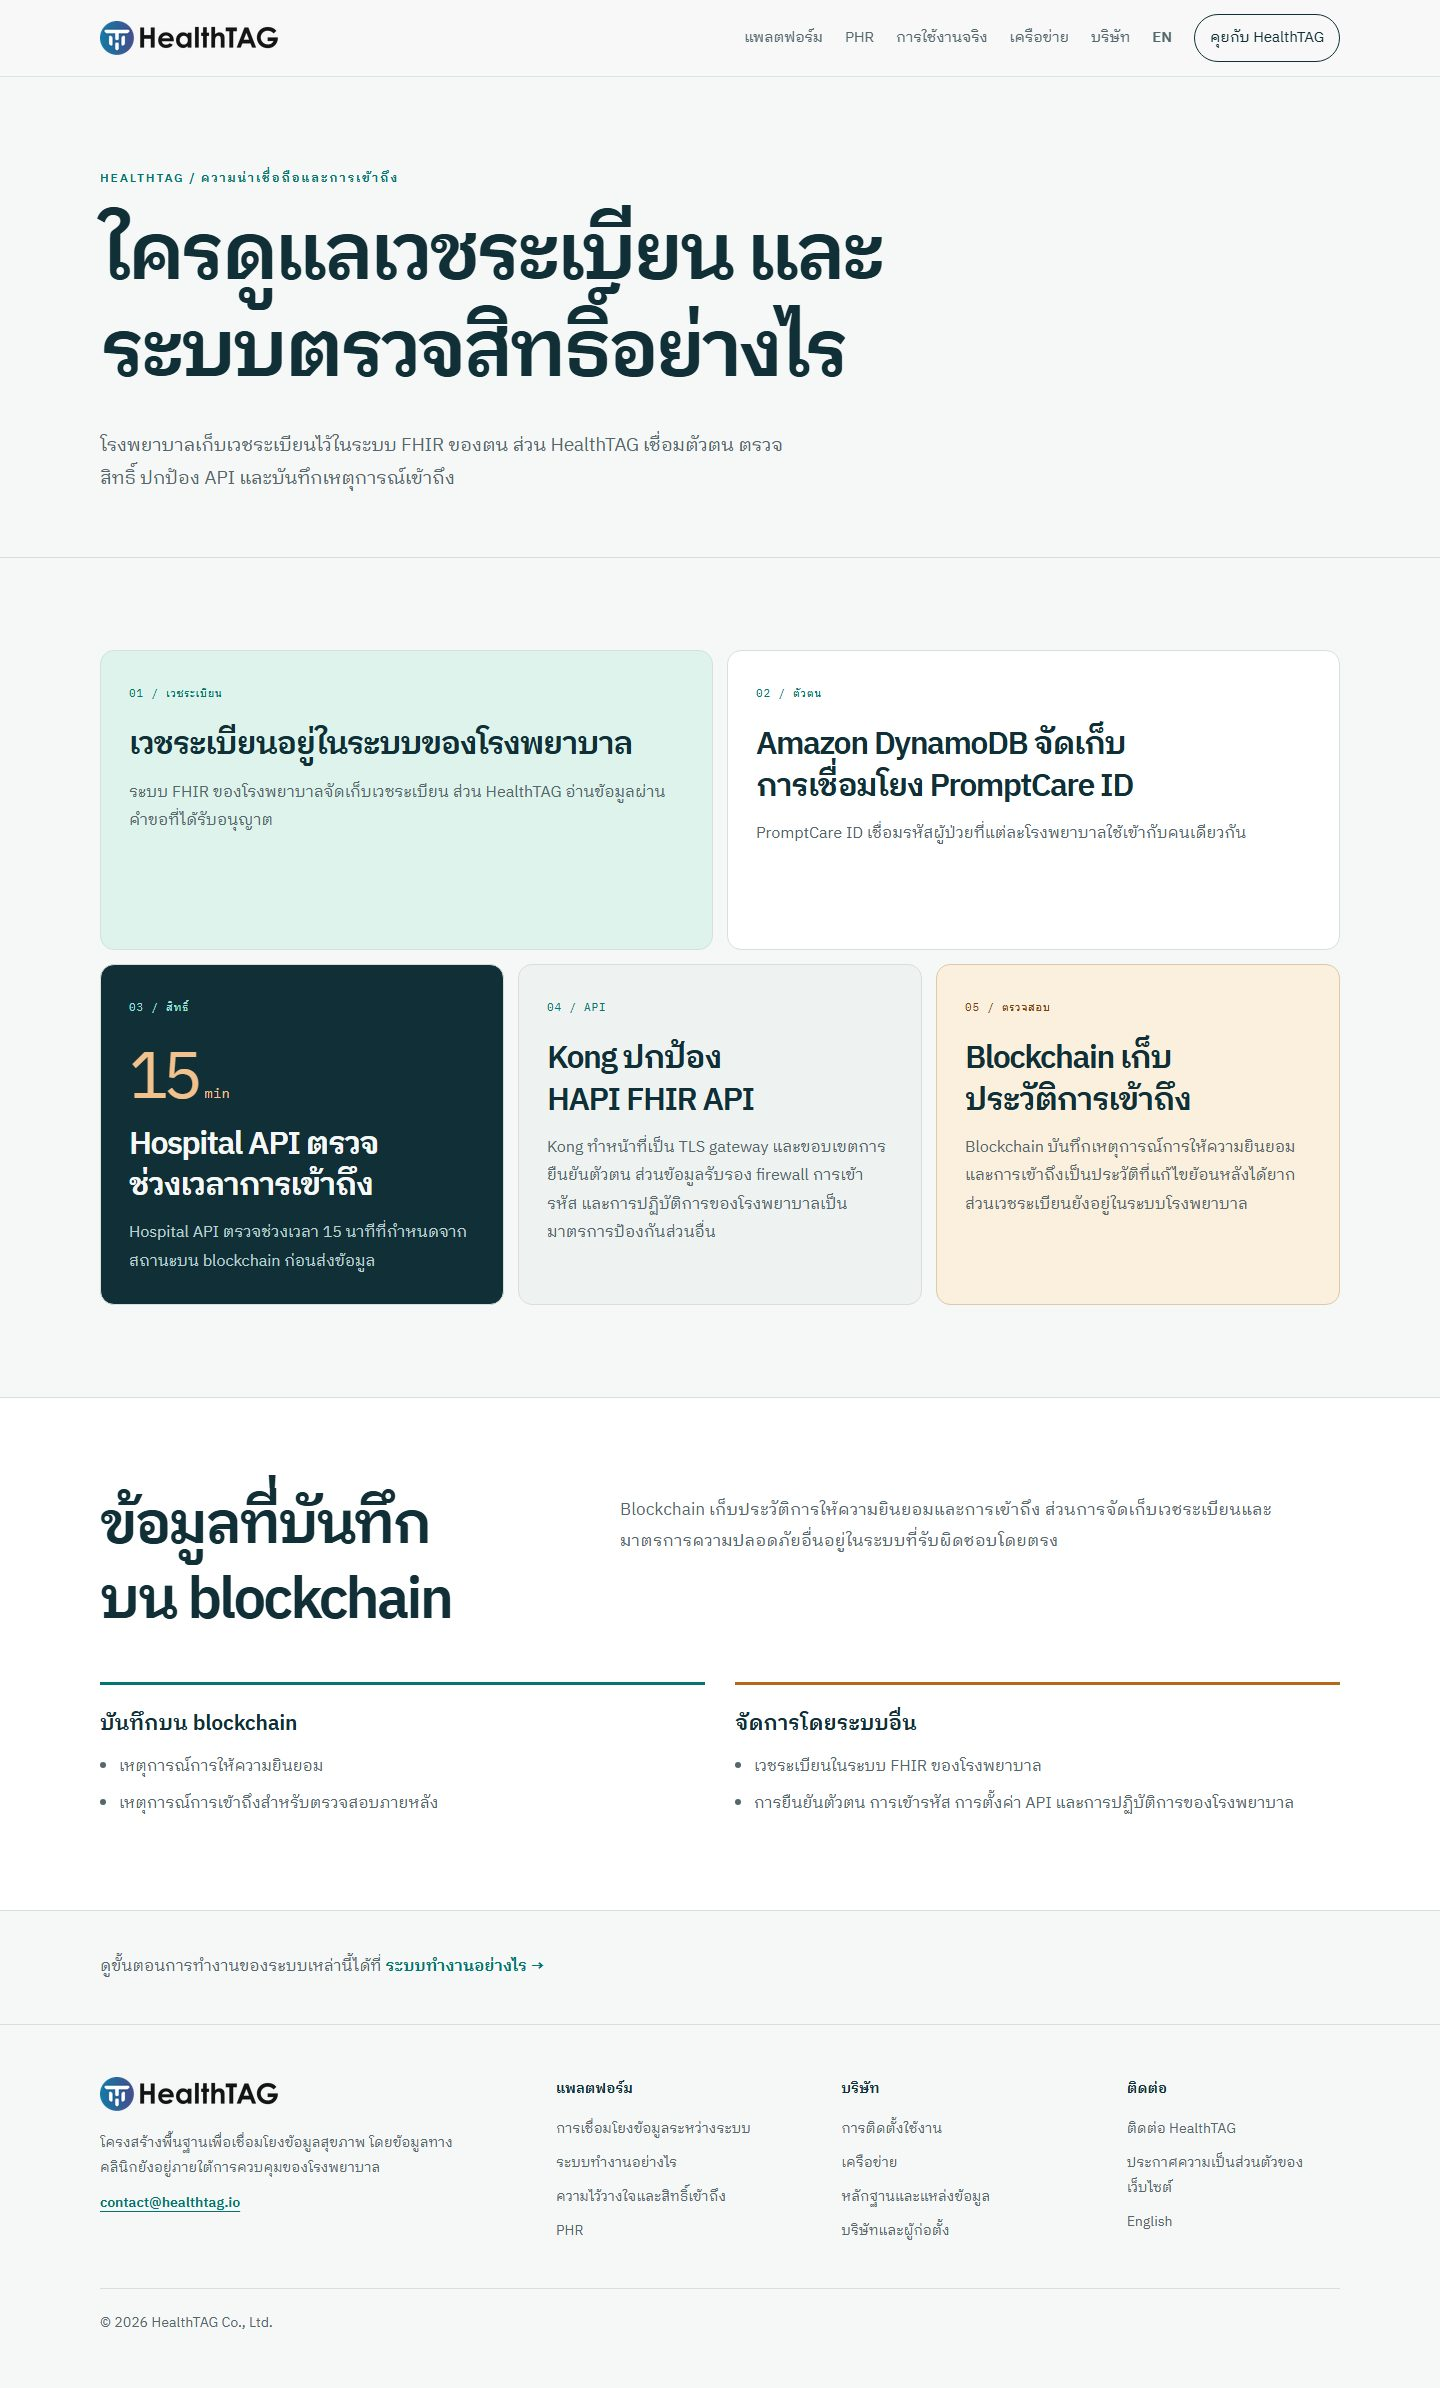
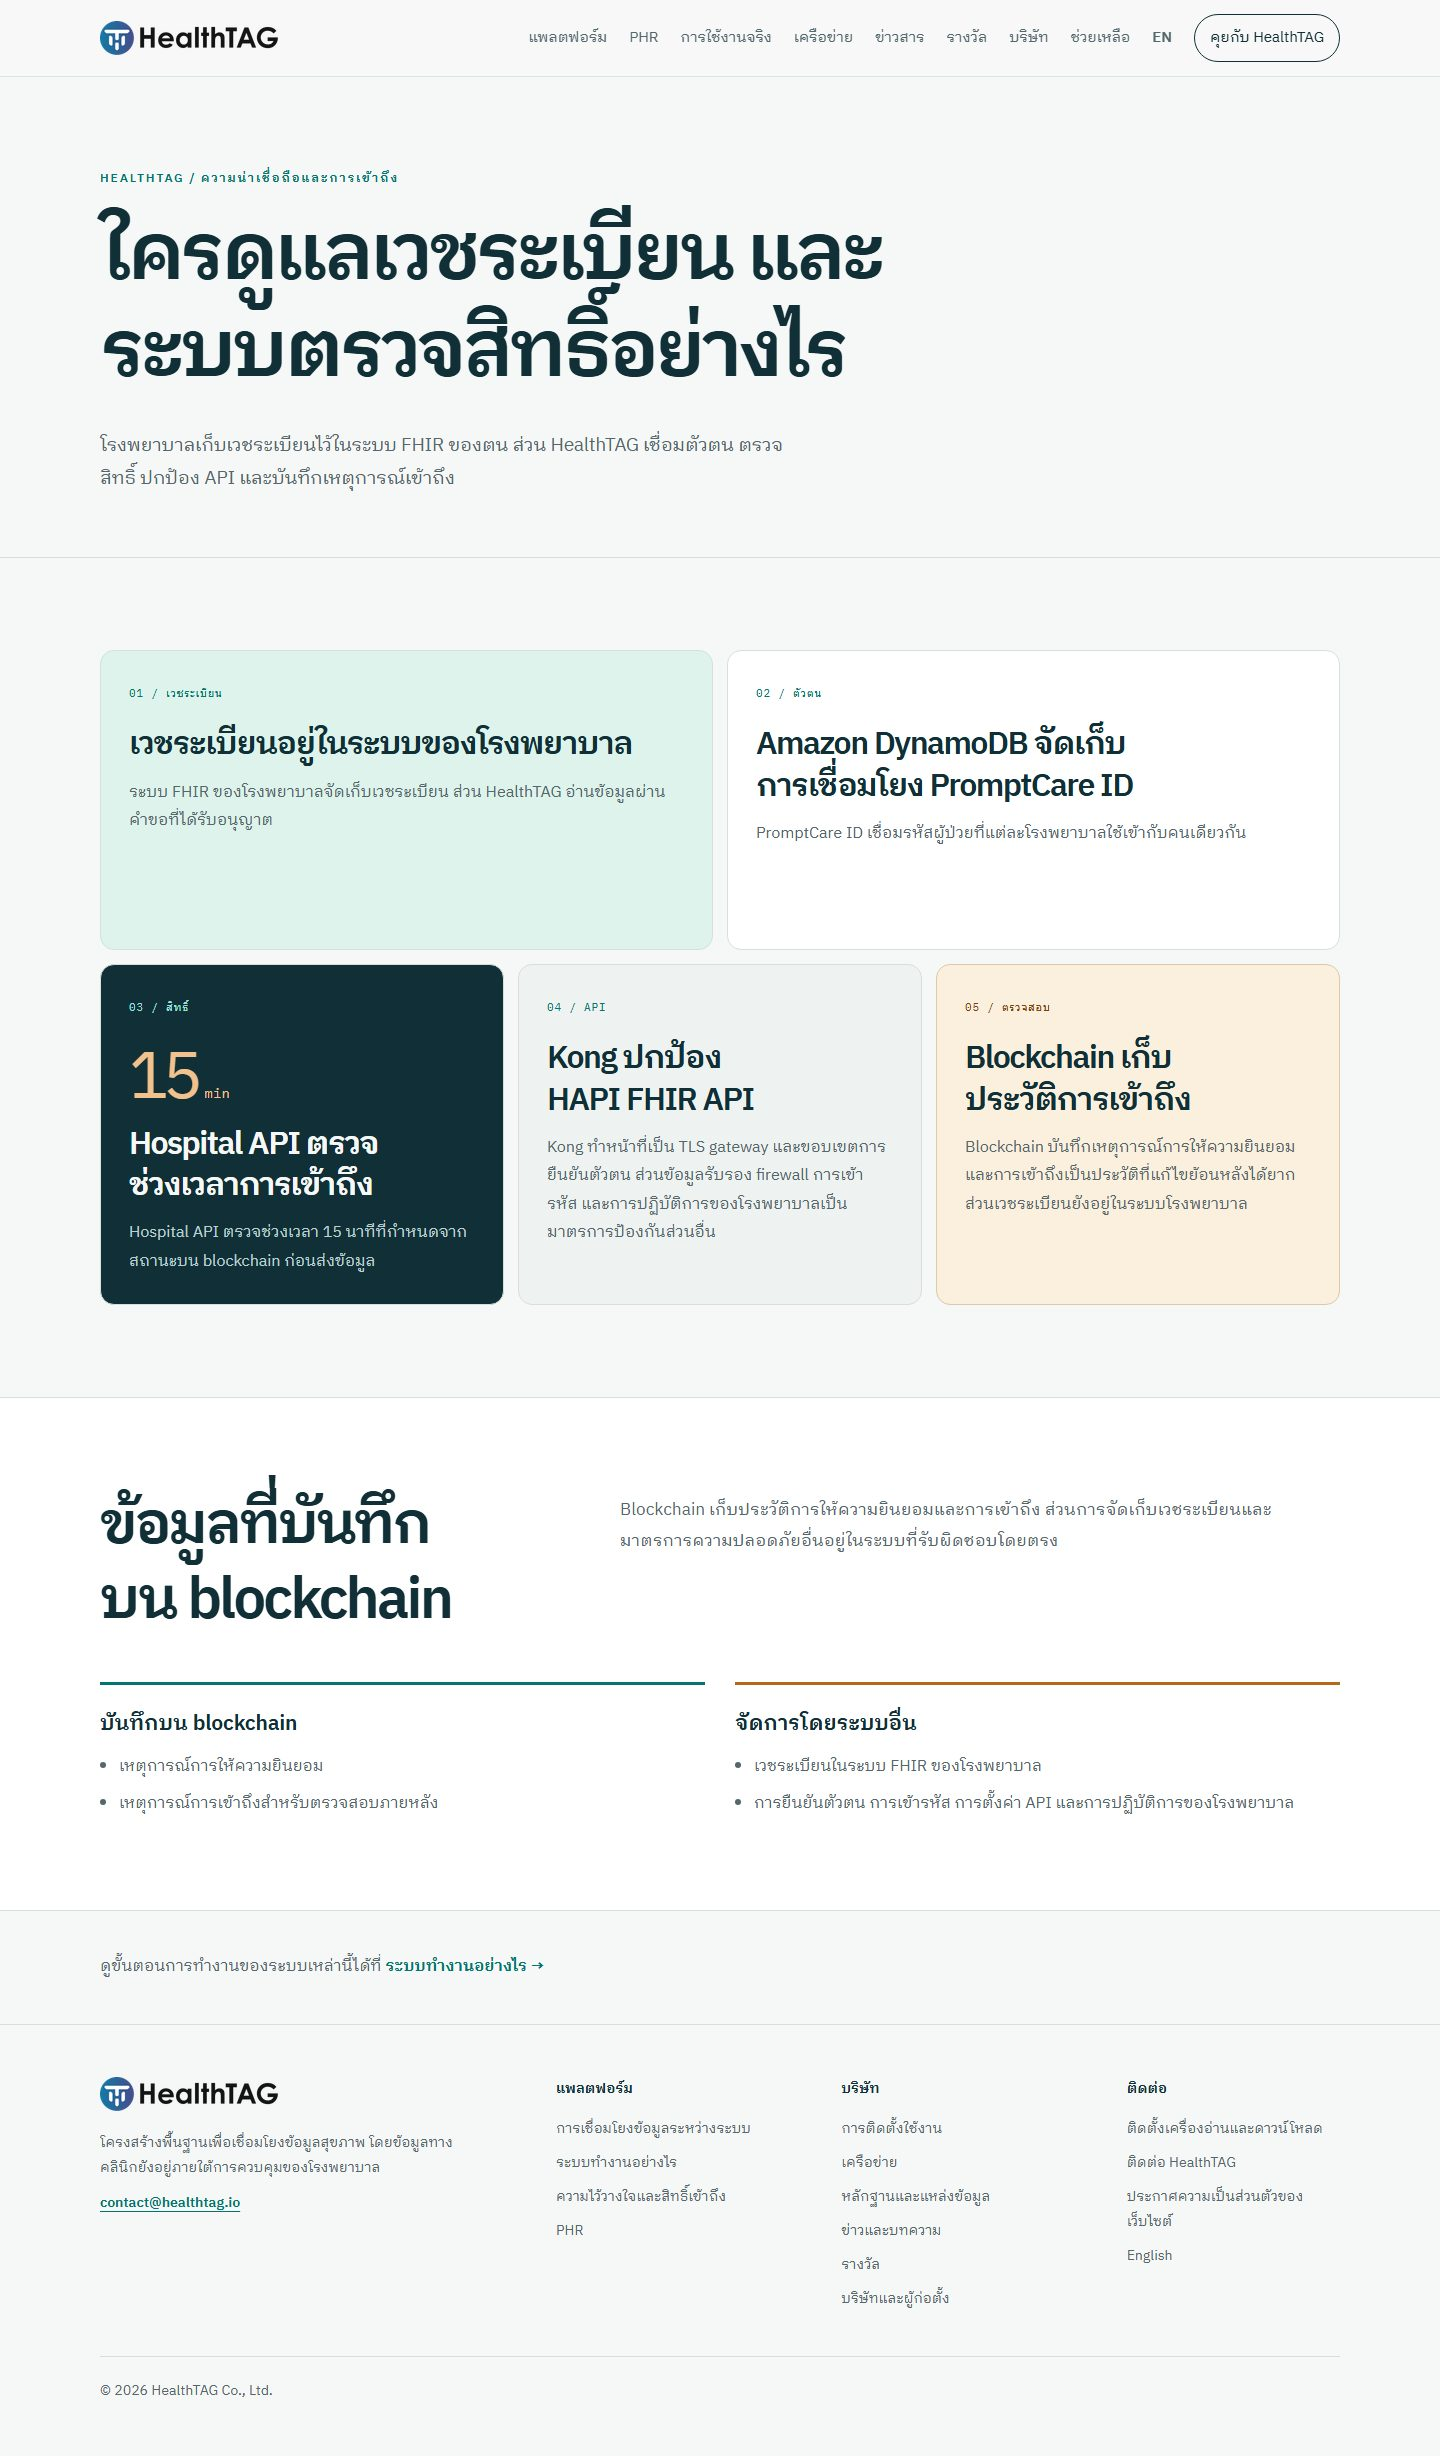
test: verify publication discovery and evidence

diff --git a/tests/launch-smoke.spec.ts b/tests/launch-smoke.spec.ts
@@ -14,6 +14,7 @@ const routes = [
   '/posts/',
   '/news/',
   '/articles/',
+  '/awards/',
   '/contact/',
   '/support/',
   '/privacy/',
@@ -21,6 +22,7 @@ const routes = [
   '/en/posts/',
   '/en/news/',
   '/en/articles/',
+  '/en/awards/',
 ];
 
 for (const width of [320, 390, 768, 1440]) {
@@ -128,34 +130,65 @@ test('support separates the recommended and legacy reader paths', async ({ page 
   await expect(page.locator('a.lang')).toHaveAttribute('href', '/support/');
 });
 
-test('news and articles use verified dates, bilingual copy, and traceable sources', async ({ page }) => {
+test('repository publications support search, pagination, local details, and bilingual metadata', async ({ page }) => {
   await page.goto('/posts/');
   await expect(page.getByRole('heading', { level: 1 })).toContainText('ข่าวและบทความจาก HealthTAG');
-  await expect(page.locator('.featured-media img')).toHaveAttribute('alt', /Digital Health Forum 2026/);
+  await expect(page.locator('.publication-card:visible')).toHaveCount(8);
+  await page.locator('.publication-pagination a', { hasText: '2' }).click();
+  await expect(page).toHaveURL(/\?page=2$/);
+  await expect(page.locator('.publication-card:visible')).toHaveCount(8);
+  await page.goBack();
+  await expect(page).toHaveURL(/\/posts\/$/);
+  await page.locator('input[name="q"]').fill('NFC sticker');
+  await page.getByRole('button', { name: 'ค้นหา' }).click();
+  await expect(page).toHaveURL(/\?q=NFC(?:\+|%20)sticker/);
+  await expect(page.locator('.publication-card:visible')).toHaveCount(1);
+
+  await page.goto('/news/digital-health-forum-2026/');
+  await expect(page.getByRole('heading', { level: 1 })).toContainText('Digital Health Forum 2026');
+  await expect(page.locator('link[rel="canonical"]')).toHaveAttribute('href', 'https://healthtag.io/news/digital-health-forum-2026/');
+  await expect(page.locator('link[hreflang="en"]')).toHaveAttribute('href', 'https://healthtag.io/en/news/digital-health-forum-2026/');
   await expect(page.locator('time[datetime="2026-08-25"]')).toBeVisible();
+  await expect(page.locator('time[datetime="2026-08-26"]')).toBeVisible();
+  await expect(page.locator('time[datetime="2026-08-31"]')).toBeVisible();
   await expect(page.locator('a[href*="facebook.com/mihealthtag/posts/"]').first()).toBeVisible();
   await expect(page.locator('a[href="https://pr.moph.go.th/online/index/news/346999"]')).toBeVisible();
-  await expect(page.locator('time[datetime="2020-04-14"]')).toBeVisible();
-  await expect(page.getByText(/10 พฤษภาคม 2564/).first()).toBeVisible();
-  await expect(page.getByText(/Self-Isolation Tracking Wristband/).first()).toBeVisible();
-  await expect(page.getByText(/NFC sticker ซึ่งเป็นหนึ่งในทางเข้า PHR/)).toBeVisible();
-  await expect(page.locator('body')).not.toContainText('26 พฤษภาคม 2569');
-  await expect(page.locator('body')).not.toContainText('1อ่าน');
+  const firstTocLink = page.locator('.publication-toc a').first();
+  await firstTocLink.focus();
+  await expect(firstTocLink).toBeFocused();
 
   await page.goto('/en/posts/');
   await expect(page.getByRole('heading', { level: 1 })).toContainText('News and articles from HealthTAG');
   await expect(page.locator('html')).toHaveAttribute('lang', 'en');
   await expect(page.locator('a.lang')).toHaveAttribute('href', '/posts/');
-  await expect(page.getByText('Thai', { exact: true }).first()).toBeVisible();
-  await expect(page.locator('body')).not.toContainText('1read');
 
   await page.goto('/news/');
-  const newsEntries = page.locator('.publication-entry');
+  const newsEntries = page.locator('.publication-card');
   for (let index = 0; index < await newsEntries.count(); index += 1) {
-    const imageCount = await newsEntries.nth(index).locator('.publication-media img').count();
-    expect(imageCount, `news item ${index + 1} should have 1 to 3 images`).toBeGreaterThanOrEqual(1);
-    expect(imageCount).toBeLessThanOrEqual(3);
+    await expect(newsEntries.nth(index).locator('img')).toHaveCount(1);
   }
+
+  await page.goto('/awards/');
+  await expect(page.getByRole('heading', { level: 1 })).toHaveText('รางวัล');
+  await expect(page.locator('.publication-card').first()).toBeVisible();
+
+  await page.goto('/articles/blockchain-digital-decentralized-system/');
+  await expect(page.getByRole('heading', { level: 1 })).toContainText('เบื้องหลังเทคโนโลยี Blockchain');
+  const tocHref = await page.locator('.publication-toc a').first().getAttribute('href');
+  expect(tocHref).toMatch(/^#\S+/);
+  await expect(page.locator(tocHref!)).toHaveCount(1);
+  const scrollMargin = await page.locator(tocHref!).evaluate((element) => getComputedStyle(element).scrollMarginTop);
+  expect(Number.parseFloat(scrollMargin)).toBeGreaterThan(0);
+  await expect(page.locator('.heading-anchor').first()).toHaveAttribute('href', /^#\S+/);
+  const articleJson = JSON.parse(await page.locator('script[type="application/ld+json"]').nth(1).textContent() ?? '{}');
+  expect(articleJson['@type']).toBe('Article');
+  expect(articleJson.datePublished).toBe('2025-11-18');
+  expect(articleJson.inLanguage).toBe('th');
+
+  await page.goto('/awards/apicta-2022/');
+  await expect(page.getByRole('heading', { name: 'รางวัลนี้ยืนยันอะไร' })).toBeVisible();
+  await expect(page.getByRole('heading', { name: 'รางวัลนี้ไม่ได้ยืนยันอะไร' })).toBeVisible();
+  await expect(page.locator('link[hreflang="en"]')).toHaveAttribute('href', 'https://healthtag.io/en/awards/apicta-2022/');
 });
 
 test('PHR page explains the NFC sticker boundary in both languages', async ({ page }) => {
@@ -168,7 +201,7 @@ test('PHR page explains the NFC sticker boundary in both languages', async ({ pa
   await expect(page.getByText(/sticker does not store the user’s clinical record/)).toBeVisible();
 });
 
-for (const route of ['/interoperability/', '/network/', '/posts/', '/en/posts/', '/contact/', '/support/', '/en/support/', '/en/evidence/']) {
+for (const route of ['/interoperability/', '/network/', '/posts/', '/en/posts/', '/articles/blockchain-digital-decentralized-system/', '/en/articles/blockchain-digital-decentralized-system/', '/awards/apicta-2022/', '/en/awards/apicta-2022/', '/contact/', '/support/', '/en/support/', '/en/evidence/']) {
   test(`basic accessibility scan passes on ${route}`, async ({ page }) => {
     await page.setViewportSize({ width: 390, height: 844 });
     await page.goto(route, { waitUntil: 'networkidle' });

diff --git a/docs/PUBLICATION_ASSETS.md b/docs/PUBLICATION_ASSETS.md
@@ -1,0 +1,25 @@
+# Repository publication image provenance
+
+Reviewed: 2026-08-31.
+
+These files were copied once from the public HealthTAG CMS or from an already verified repository asset. Astro creates display renditions locally. The production build does not request images from the CMS.
+
+## Article images
+
+| File | Source | Dimensions | SHA-256 |
+| --- | --- | ---: | --- |
[6 lines of base64/hex data omitted]
+
+## Award images
+
+| File | Source | Dimensions | SHA-256 |
+| --- | --- | ---: | --- |
[2 lines of base64/hex data omitted]
+
+The images document the corresponding article or recognition. They do not establish a deployment, certification, regulatory approval, or current contract.

diff --git a/plan/repository-publications.md b/plan/repository-publications.md
@@ -1,0 +1,33 @@
+# Repository publications migration
+
+## Goal
+
+Move HealthTAG news, articles, and verified awards into schema-validated repository content. The production build and detail pages must not depend on a CMS or Facebook.
+
+## Checklist
+
+- [x] Audit current publication routes, assets, redirects, metadata, and tests
+- [x] Inventory all published HealthTAG articles and verified awards with source boundaries
+- [x] Define Astro content collections and complete bilingual schema
+- [x] Migrate full Thai and English article bodies, including Blockchain, NCDs, and Smart Contract
+- [x] Migrate published news with 1-3 local images, provenance, checksums, and distinct dates
+- [x] Add verified awards with local images and explicit confirmation boundaries
+- [x] Build bilingual listing, static search, URL pagination, detail, and award routes
+- [x] Add keyboard-accessible TOC, anchors, scroll margins, and mobile treatment
+- [x] Add canonical, hreflang, structured data, navigation, sitemap, and one-to-one redirects
+- [x] Humanizer review all new or materially revised public copy
+- [x] Add content, routing, search, pagination, metadata, accessibility, and responsive tests
+- [x] Verify legacy and publication assets
+- [x] Run `npm ci`, `npm run validate`, Playwright, and axe checks
+- [x] Inspect Thai and English pages at 320, 390, 768, and 1440 px
+- [ ] Commit coherent changes and open an unmerged PR with sources, dates, tests, preview evidence, limitations, and owner confirmations
+
+## Decision log
+
+- Work from a dedicated `codex/` branch in this isolated worktree.
+- Preserve the existing Clinical Systems Editorial design and native CSS approach.
+- Treat CMS and Facebook only as one-time migration sources; store all published content and media required at build time in Git.
+- Do not publish a date, award boundary, deployment implication, or image identity that lacks owner confirmation or primary-source evidence.
+- Publish 18 bilingual entries: 10 news items, 6 full articles, and 2 verified award or laureate records.
+- The APICTA result confirms a category winner. The ODESS source confirms laureate selection. Neither record is presented as certification, regulatory approval, deployment, or contract evidence.
+- Search and pagination query states use the canonical index URL and are intentionally excluded from the sitemap to avoid duplicate crawl URLs.

diff --git a/README.md b/README.md
@@ -13,6 +13,7 @@ The site explains HealthTAG as healthcare interoperability infrastructure: hospi
 | [`CONTENT_OWNERSHIP.md`](./CONTENT_OWNERSHIP.md) | Canonical page for each recurring concept, used to prevent copy duplication |
 | [`docs/LEGACY_ASSETS.md`](./docs/LEGACY_ASSETS.md) | Provenance and identity mapping for migrated logos and team photography |
 | [`docs/NEWS_ASSETS.md`](./docs/NEWS_ASSETS.md) | Provenance and usage boundaries for first-party news photography |
+| [`docs/PUBLICATION_ASSETS.md`](./docs/PUBLICATION_ASSETS.md) | Provenance and checksums for migrated article and award images |
 
 The official Data Source Node architecture documentation is the primary technical reference when changing architecture diagrams or implementation copy:
 
@@ -79,6 +80,7 @@ public/                  static files, sitemap, robots, and social assets
 scripts/                 asset integrity and maintenance scripts
 src/assets/legacy/       verified original HealthTAG assets
 src/components/          page and reusable UI components
+src/content/             schema-validated bilingual news, articles, and awards
 src/data/                bilingual content, evidence, network, and team mappings
 src/layouts/             shared document shell and metadata
 src/pages/               Thai and English routes

diff --git a/CONTENT_OWNERSHIP.md b/CONTENT_OWNERSHIP.md
@@ -10,6 +10,7 @@ To avoid repetition, each recurring concept has one canonical page:
 - **Deployments:** Siriraj and Khian Sa implementation-specific facts.
 - **Network:** relationship context only; not deployment claims.
 - **Evidence:** externally sourced validation and milestone links.
+- **Awards:** verified award and laureate records, image provenance, and the boundary of what each result confirms. Evidence remains canonical for broader external validation.
 - **News & Articles:** dated company activity, source links, publication dates, and long-form HealthTAG explainers. Evidence remains the canonical page for what external sources confirm.
 - **Company:** vision, values, founder, and team context.
 - **Contact:** corporate enquiry routing, sensitive-data warning, and the honest email fallback.
